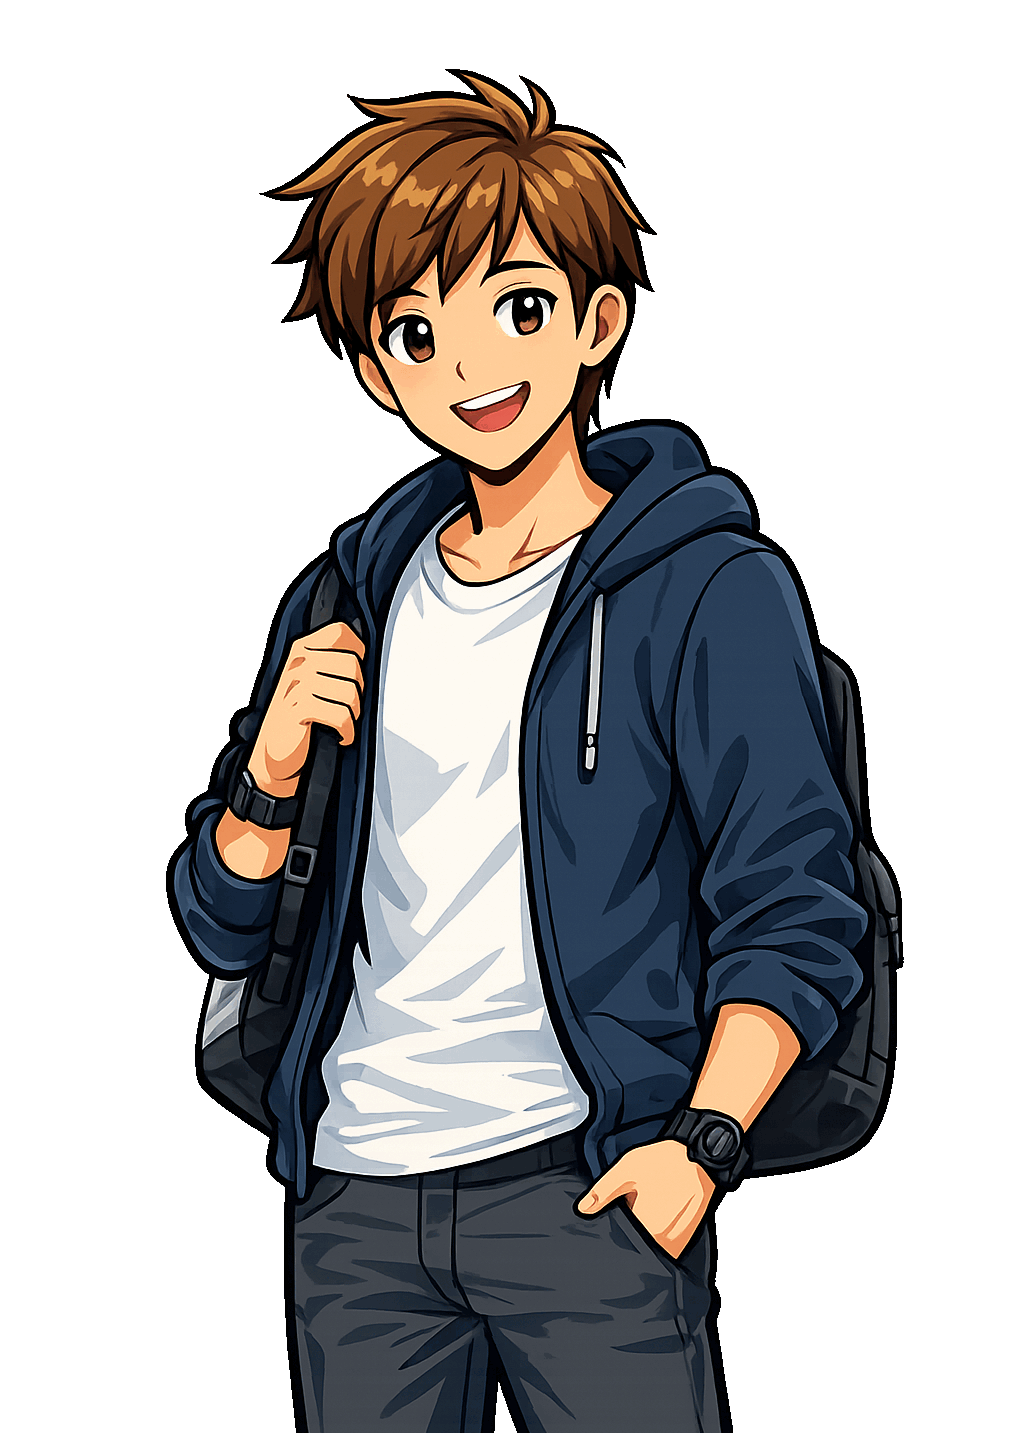
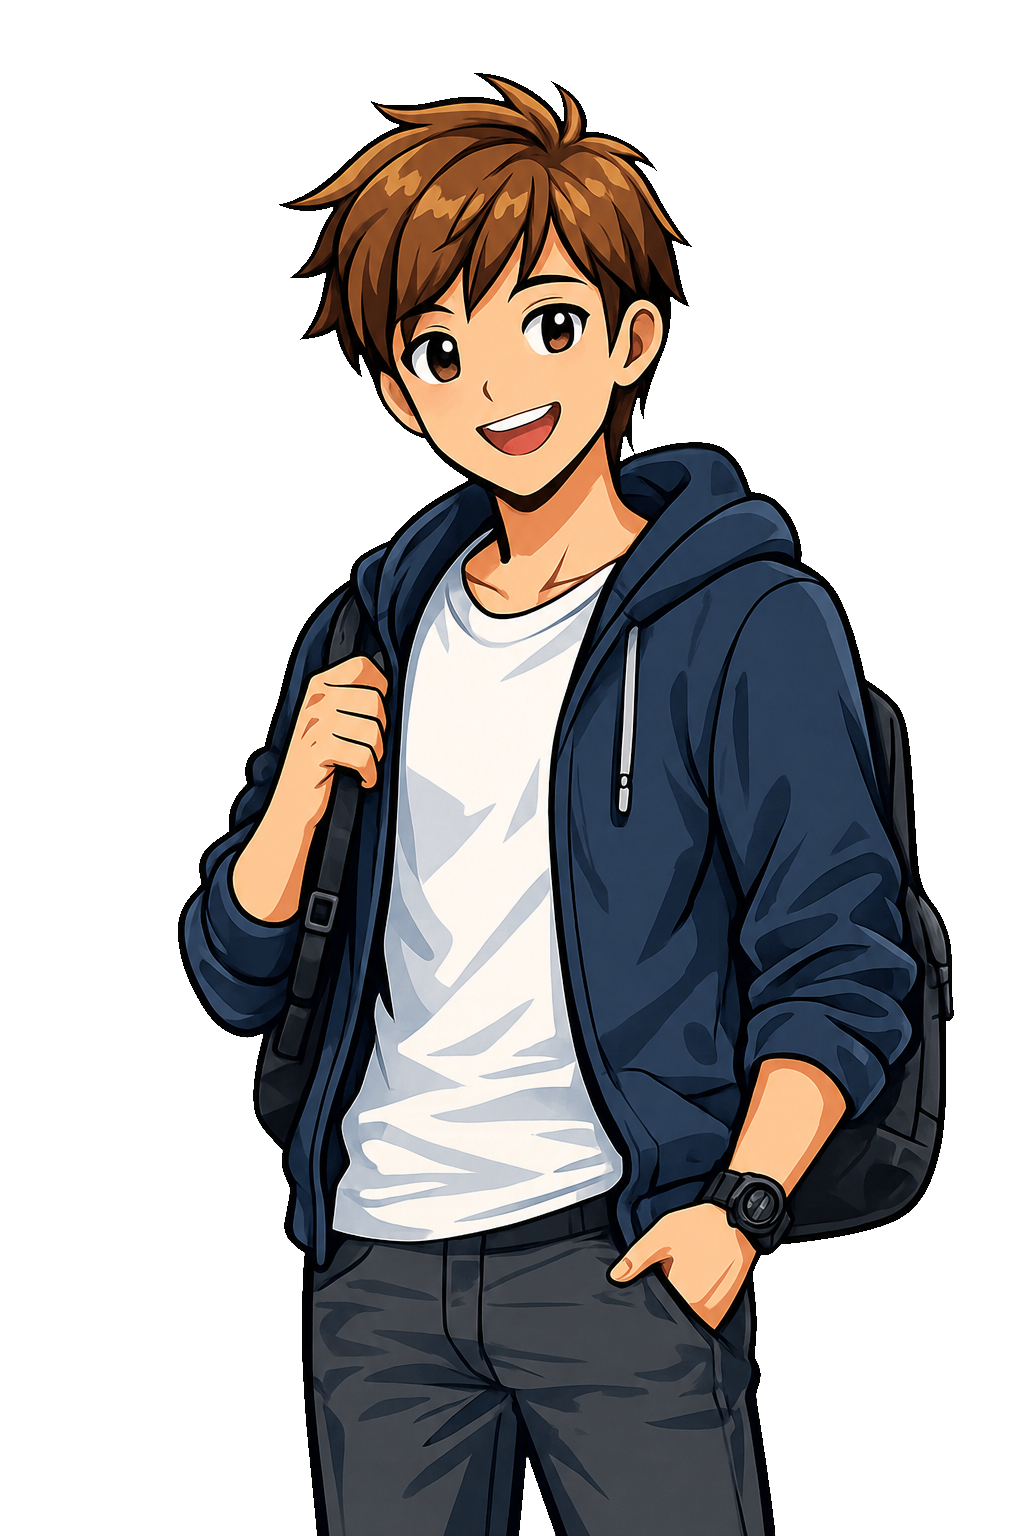
добавлен ряд эмоций персонажей. добавлены в историю

diff --git a/story.js b/story.js
@@ -34,9 +34,25 @@ bgBranchYardTest file=assets/backgrounds/bg-uni-yard-night.jpg
 # - image - изображение персонажа
 # - name - имя персонажа
 # - color - цвет подсветки имени персонажа
-anna file=assets/characters/ch-anna-neutral.png name="Анна" color=#0F0  # По умолчанию emotion=neutral
+anna file=assets/characters/ch-anna-calm.png name="Анна" color=#0F0 # По умолчанию emotion=calm
+anna emotion=calm file=assets/characters/ch-anna-calm.png
+anna emotion=welcome file=assets/characters/ch-anna-welcome.png
+anna emotion=explain file=assets/characters/ch-anna-explain.png
+anna emotion=thinking file=assets/characters/ch-anna-thinking.png
+anna emotion=laugh file=assets/characters/ch-anna-laugh.png
+anna emotion=support file=assets/characters/ch-anna-support.png
+anna emotion=excited file=assets/characters/ch-anna-excited.png
+igor file=assets/characters/ch-igor-calm.png name="Игорь" color=#F00
+igor emotion=welcome file=assets/characters/ch-igor-welcome.png
+igor emotion=explain file=assets/characters/ch-igor-explain.png
+igor emotion=thinking file=assets/characters/ch-igor-thinking.png
+igor emotion=laugh file=assets/characters/ch-igor-laugh.png
+igor emotion=support file=assets/characters/ch-igor-support.png
+igor emotion=excited file=assets/characters/ch-igor-excited.png
+igor emotion=calm file=assets/characters/ch-igor-calm.png
+igor emotion=neutral file=assets/characters/ch-igor-neutral.png
 igor emotion=smile file=assets/characters/ch-igor-smile.png
-igor emotion=neutral file=assets/characters/ch-igor-neutral-test.png name="Игорь" color=#F00
+
 ivan emotion=neutral file=assets/characters/ch-ivan-smile-test.png name="Иван" color=#060
 
 [audio] 
@@ -99,22 +115,22 @@ bgm bgmDay loop
 
 
 
-show anna  # если не указана эмоция, то используется neutral
+show anna welcome # если не указана эмоция, то используется neutral
 anna: "Добро пожаловать в наш вуз! Это демо визуальной новеллы для вертикального экрана."
 
 show igor smile
 igor: "Круто. И всё это — один HTML-файл, без сервера?"
 
-show anna neutral
+show anna explain
 anna: "Да. Фон подстраивается под 7×16 и всегда центрируется."
 
-show igor smile
+show igor explain
 igor: "А персонаж один за раз — это даже удобно: меньше путаницы на экране."
 
-show anna neutral
+show anna explain
 anna: "Плюс можно добавлять мини-игры и возвращать результат — для ветвлений."
 
-show igor smile
+show igor excited
 igor: "Тогда давай сделаем выбор: пусть посетитель решит, куда пойдём дальше!"
 
 goto scScene02
@@ -131,8 +147,7 @@ hide all
 
 "Страницы шуршат, где-то вдалеке щёлкает клавиатура. Идея почти готова."
 
-show anna neutral
-
+show anna thinking
 anna: "Есть вопрос: куда ведём посетителя дальше, чтобы он почувствовал атмосферу вуза?"
 
 # bgm bgmMystery
@@ -154,11 +169,13 @@ hide all
 bg bgBranchCafe2
 
 # Диалоги персонажей без показа на экране
-anna: "Кофе здесь просто божественный! Особенно тот латте с карамелью."
+anna: "Кофе здесь просто восхитительный! Особенно тот латте с карамелью."
 igor: "Зато какие мемы рождаются после трёх чашек! Помнишь тот с котом-программистом?"
 
+show anna laugh
 anna: "Ой, не напоминай! Мы потом неделю смеялись."
 
+show anna explain
 anna: "Кажется, бариста не справляется с наплывом. Хочешь помочь?"
 
 game gmCoffeeRush difficulty=3 result=coffeeResult
@@ -212,10 +229,10 @@ hide all
 
 "На боковом экране открыт учебный модуль: система перемешала ключевые термины и ждёт, когда их соберут обратно."
 
-show anna neutral
+show anna explain
 anna: "Это не тест реакции, а проверка внимания. Нужно найти слова, из которых собирается логика программы."
 
-show igor smile
+show igor thinking
 igor: "То есть сначала приводим в порядок словарь, а потом уже запускаем сложные стенды?"
 
 goto scBranchLabWordSearchRun
@@ -241,7 +258,7 @@ hide all
 
 "Термины собраны, и система подсветила связанный маршрут: код, цикл, массив, функция, алгоритм."
 
-show anna neutral
+show anna calm
 anna: "Отлично. Даже простая словесная задача может работать как часть лабораторной сцены."
 
 goto scFinale01
@@ -254,7 +271,7 @@ hide all
 
 "Часть терминов осталась несобранной, но модуль всё равно показал, где логика распалась."
 
-show igor neutral
+show igor support
 igor: "Ничего страшного. Для прототипа это тоже полезно: сразу видно, какие подсказки нужны игроку."
 
 goto scFinale01
@@ -273,14 +290,15 @@ set z = z + x * 2 + 2
 
 "Попытка №{labStep}. Система пересчитала параметры: x = {x}, z = {z}."
 
-show igor smile
+show igor explain
 igor: "Смотри, я снова запустил модель. Теперь x = {x}."
 
-show anna neutral
+show anna explain
 anna: "А производный параметр уже равен {z}. Похоже, система постепенно выходит на устойчивый режим."
 
 if labStep > 2 -> scFinale01
 
+show anna excited
 anna: "Это ещё не финал. Давай прогоним расчёт ещё раз."
 
 goto scBranchLabCalc
@@ -299,7 +317,7 @@ hide all
 "На одном из стендов уже открыт режим калибровки. Система предлагает проверить, насколько быстро экран реагирует на касания и как держит нагрузку."
 "Если всё работает стабильно, такую панель можно использовать для интерактивных игровых сцен и совместного управления."
 
-show anna neutral
+show anna explain
 anna: "Это как раз то, что нужно для нашей истории. Проверим отклик, multitouch и точность?"
 
 show igor smile
@@ -320,10 +338,10 @@ hide all
 
 "Диагностика завершена успешно. Экран уверенно реагирует на касания, поддерживает multitouch и подходит для интерактивных сцен."
 
-show anna neutral
+show anna excited
 anna: "Отлично. Значит, такие механики можно смело встраивать в историю."
 
-show igor smile
+show igor excited
 igor: "Вот теперь лаборатория выглядит не просто как декорация, а как место, где рождаются игровые идеи."
 
 goto scFinale01
@@ -337,10 +355,10 @@ hide all
 
 "Диагностика показала, что системе ещё есть куда расти: часть проверок оказалась нестабильной."
 
-show anna neutral
+show anna support
 anna: "Ничего страшного. Зато теперь понятно, что именно нужно доработать."
 
-show igor neutral
+show igor support
 igor: "Это тоже полезный результат. Любая хорошая система начинается с честной проверки."
 
 goto scFinale01
@@ -357,11 +375,13 @@ hide all
 "Во дворе тихо: фонари рисуют дорожки света, и даже шаги звучат как часть саундтрека."
 "Над кампусом — глубокое вечернее небо. Анна вдруг улыбается, будто придумала маленькое испытание."
 
-show anna neutral
+show anna excited
 anna: "Знаешь, вечер — лучшее время для воображения. Давай представим, что мы проводим маленький спутник сквозь поток космическких обломков."
 
 show igor smile
 igor: "То есть вместо обычной прогулки — ночной челлендж?"
+
+show igor excited
 igor: "Мне нравится. Если пройдём маршрут чисто, вечер точно запомнится."
 
 "Ты сосредотачиваешься на экране и берёшь управление."
@@ -384,10 +404,10 @@ hide all
 "Траектория пройдена идеально — ни одного столкновения."
 "Кажется, ночной кампус и правда превращает даже простую прогулку в маленькое приключение."
 
-show anna neutral
+show anna excited
 anna: "Вот это было красиво. Такой вечер хочется запомнить."
 
-show igor smile
+show igor calm
 igor: "Пожалуй, лучший маршрут на сегодня мы уже нашли."
 
 goto scFinale01
@@ -403,10 +423,10 @@ hide all
 "Маршрут оказался сложнее, чем казалось, и несколько опасных обломков всё-таки сбили темп."
 "Но вечер от этого не стал хуже — наоборот, в нём появилось ещё больше азарта и живого ощущения пути."
 
-show anna neutral
+show anna support
 anna: "Ничего, не идеальный маршрут тоже остаётся историей."
 
-show igor neutral
+show igor support
 igor: "Согласен. Иногда вечер запоминается именно потому, что не идёт по плану."
 
 goto scFinale01
@@ -433,10 +453,10 @@ hide all
 "На дальнем столе собран отдельный стенд: прозрачная плата, активные дорожки и контур, который нужно провести через узлы без перегрузки."
 "Это уже не просто диагностика, а практическое испытание реакции и точности."
 
-show anna neutral
+show anna excited
 anna: "Вот это уже интересно. Здесь мы не просто смотрим на систему, а ведём сигнал по реальной схеме."
 
-show igor smile
+show igor explain
 igor: "Давай выберем режим: простой и напряжённый."
 
 goto scBranchLabRoutingDifficulty
@@ -447,7 +467,7 @@ scene scBranchLabRoutingDifficulty
 bg bgBranchLab
 hide all
 
-show anna neutral
+show anna thinking
 anna: "Какой режим запускаем?"
 
 menu
@@ -499,10 +519,10 @@ hide all
 
 "На одном из участков сигнал сорвался, и стенд остановил прогон."
 
-show anna neutral
+show anna support
 anna: "Ничего страшного. Даже сбой здесь выглядит как часть эксперимента."
 
-show igor neutral
+show igor support
 igor: "Зато напряжение в сцене чувствуется сразу. Для истории это тоже работает."
 
 goto scFinale01
@@ -522,7 +542,7 @@ hide all
 show anna neutral
 anna: "Вот это уже ближе к игровому эпизоду. Не просто касание, а проверка памяти и темпа."
 
-show igor smile
+show igor explain
 igor: "Давай оставим два режима: обычный и напряжённый. Для новеллы этого вполне достаточно."
 
 goto scBranchLabMemoryDifficulty
@@ -533,7 +553,7 @@ scene scBranchLabMemoryDifficulty
 bg bgBranchLab
 hide all
 
-show anna neutral
+show anna thinking
 anna: "Какой режим теста запускаем?"
 
 menu
@@ -582,10 +602,10 @@ hide all
 
 "Серия световых импульсов воспроизведена без ошибок. Стенд подтвердил, что память и темп удерживаются стабильно."
 
-show anna neutral
+show anna excited
 anna: "Отлично. Такой тест хорошо дополняет лабораторию: здесь важна не только реакция, но и концентрация."
 
-show igor smile
+show igor excited
 igor: "Да, это уже другой тип мини-игры, и он ощущается очень к месту."
 
 goto scFinale01
@@ -599,10 +619,10 @@ hide all
 
 "На одной из серий ты сбиваешься, и стенд останавливает испытание."
 
-show anna neutral
+show anna support
 anna: "Ничего страшного. Даже ошибка здесь работает как часть эксперимента."
 
-show igor neutral
+show igor thinking
 igor: "Зато сразу видно, как меняется напряжение, когда на память идёт реальная нагрузка."
 
 goto scFinale01
